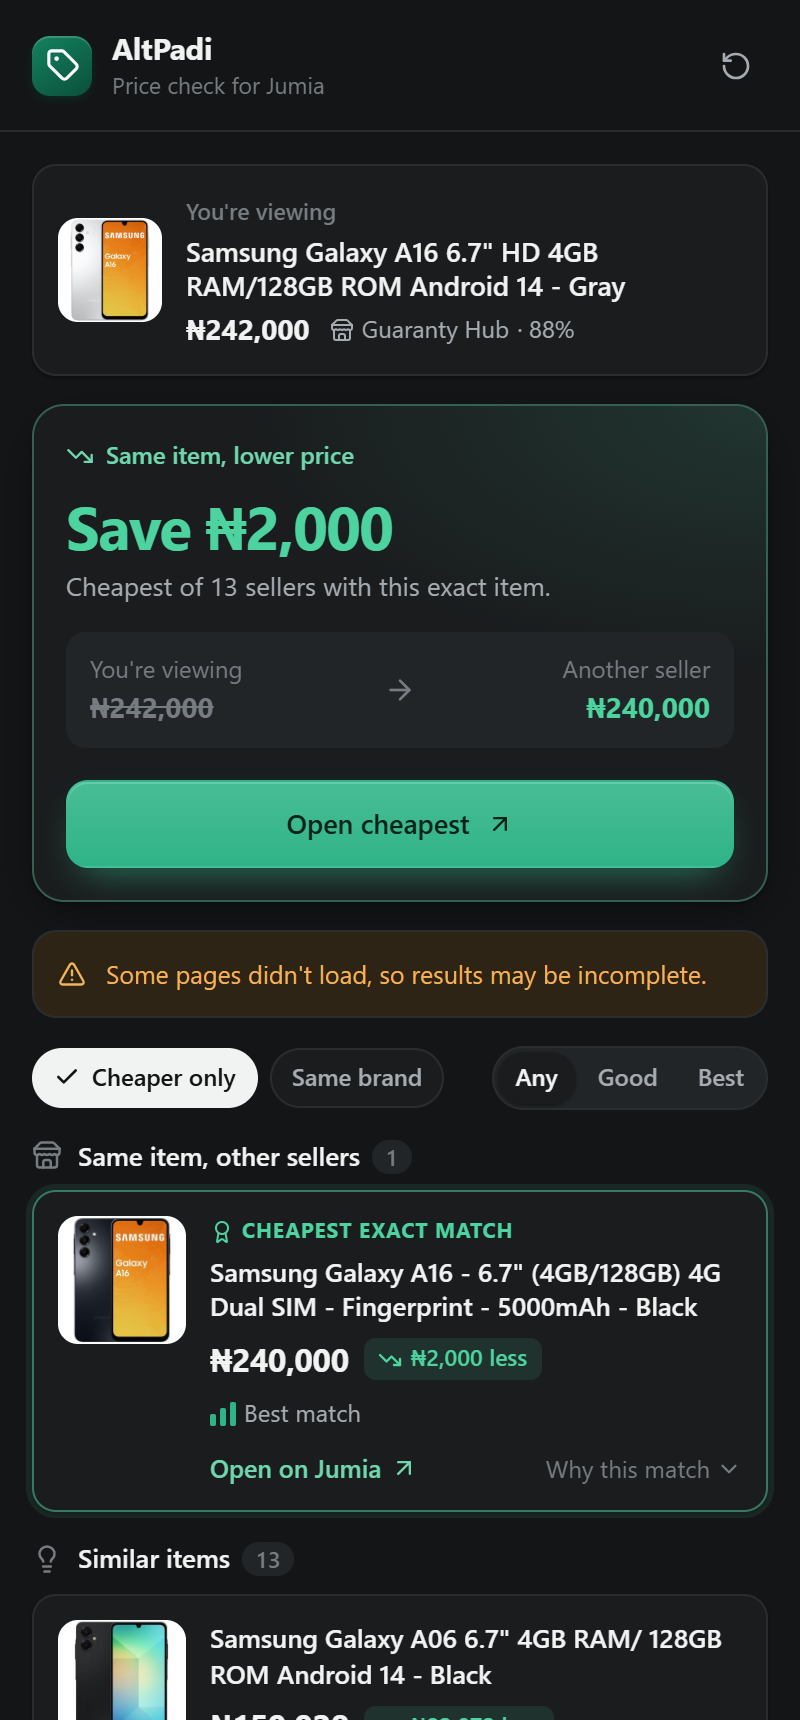
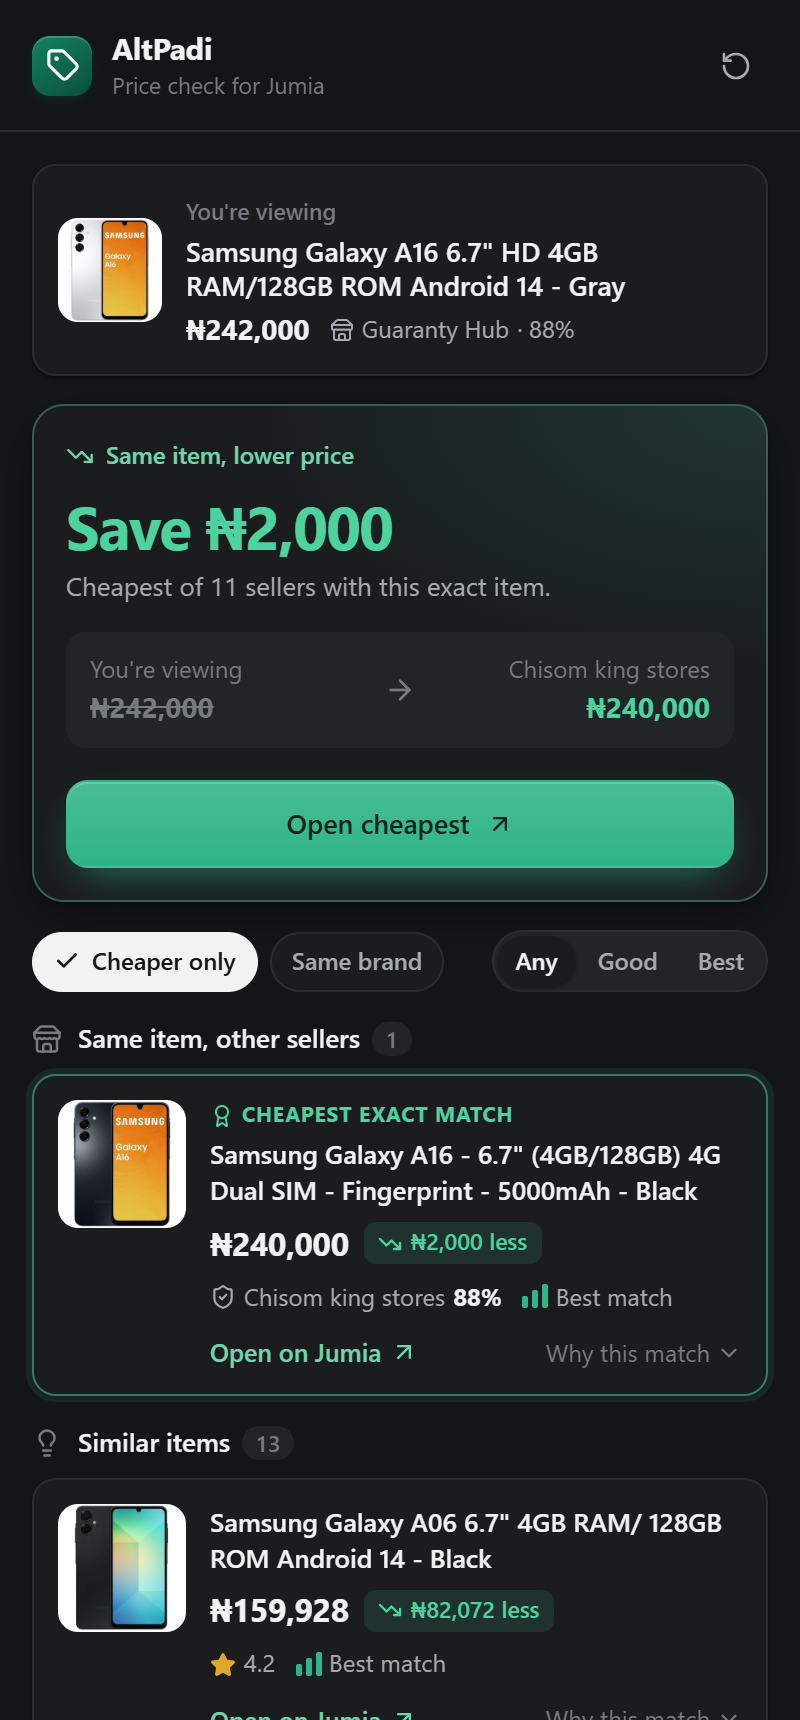
fix: pace Jumia requests and back off on HTTP 429
Jumia answers bursts with 429, which silently dropped product details (seller,
score) from results. All fetches now go through one queue with a 600ms gap,
and a 429 is retried twice, honouring Retry-After (capped at 8s).

Also: searching copy now says 10-20 seconds; README screenshots retaken from a
live run made through a real Jumia browser tab, with no failed pages.

diff --git a/src/extension/__tests__/politeFetch.test.ts b/src/extension/__tests__/politeFetch.test.ts
@@ -1,0 +1,76 @@
+import { describe, expect, it, vi } from "vitest";
+import { createPoliteFetch, type PoliteFetchOptions } from "@extension/politeFetch";
+
+/** A fake clock: sleep() advances time, so tests can read exactly how long we waited. */
+function fakeClock() {
+  let time = 0;
+  const waits: number[] = [];
+  return {
+    waits,
+    now: () => time,
+    sleep: async (ms: number) => {
+      waits.push(ms);
+      time += ms;
+    }
+  };
+}
+
+const respond = (status: number, headers: Record<string, string> = {}) => new Response("html", { status, headers });
+
+function setup(responses: Response[], options: Partial<PoliteFetchOptions> = {}) {
+  const clock = fakeClock();
+  const fetchOnce = vi.fn(async () => responses.shift() ?? respond(200));
+  const politeFetch = createPoliteFetch(fetchOnce, {
+    minGapMs: 500,
+    maxRetries: 2,
+    backoffMs: 1000,
+    maxWaitMs: 8000,
+    sleep: clock.sleep,
+    now: clock.now,
+    ...options
+  });
+  return { clock, fetchOnce, politeFetch };
+}
+
+describe("createPoliteFetch", () => {
+  it("leaves a gap between requests so Jumia isn't flooded", async () => {
+    const { clock, politeFetch } = setup([]);
+    await politeFetch("a");
+    await politeFetch("b");
+    await politeFetch("c");
+    expect(clock.waits).toEqual([500, 500]);
+  });
+
+  it("queues requests made at the same time instead of firing them together", async () => {
+    const { clock, fetchOnce, politeFetch } = setup([]);
+    await Promise.all([politeFetch("a"), politeFetch("b")]);
+    expect(fetchOnce).toHaveBeenCalledTimes(2);
+    expect(clock.waits).toEqual([500]);
+  });
+
+  it("backs off and retries when told 'too many requests'", async () => {
+    const { clock, fetchOnce, politeFetch } = setup([respond(429), respond(429), respond(200)]);
+    const response = await politeFetch("a");
+    expect(response.status).toBe(200);
+    expect(fetchOnce).toHaveBeenCalledTimes(3);
+    expect(clock.waits).toEqual([1000, 2000]);
+  });
+
+  it("follows the server's Retry-After, within a limit", async () => {
+    const { clock, politeFetch } = setup([respond(429, { "Retry-After": "3" }), respond(429, { "Retry-After": "60" })]);
+    await politeFetch("a");
+    expect(clock.waits).toEqual([3000, 8000]);
+  });
+
+  it("gives up after the last retry and hands back the 429", async () => {
+    const { fetchOnce, politeFetch } = setup([respond(429), respond(429), respond(429), respond(200)]);
+    expect((await politeFetch("a")).status).toBe(429);
+    expect(fetchOnce).toHaveBeenCalledTimes(3);
+  });
+
+  it("does not retry other failures", async () => {
+    const { fetchOnce, politeFetch } = setup([respond(500)]);
+    expect((await politeFetch("a")).status).toBe(500);
+    expect(fetchOnce).toHaveBeenCalledTimes(1);
+  });
+});

diff --git a/scripts/screenshots/capture-run.ts b/scripts/screenshots/capture-run.ts
@@ -1,5 +1,10 @@
 // Runs the real AltPadi search against live Jumia and saves the result for screenshots.
 // Run: npx vite-node scripts/screenshots/capture-run.ts "<jumia product url or search words>"
+//
+// Set ALTPADI_CDP to your Chrome's debugging URL (e.g. ws://127.0.0.1:9222/devtools/browser) and
+// ALTPADI_SESSION to an agent-browser session pinned to an open jumia.com.ng tab, and requests go
+// through that tab, as the extension's would. Otherwise Node fetches directly.
+import { execFileSync } from "node:child_process";
 import { writeFileSync } from "node:fs";
 import { runAlternativeSearch } from "@core/search-runner";
 import { fetchCurrentProductFromUrl } from "@extension/currentProduct";
@@ -9,16 +14,41 @@ const input = process.argv[2] ?? "samsung galaxy a16";
 
 const pause = (ms: number) => new Promise((resolve) => setTimeout(resolve, ms));
 
+interface Page {
+  status: number;
+  body: string;
+}
+
+const cdp = process.env.ALTPADI_CDP;
+const session = process.env.ALTPADI_SESSION;
+
+async function fetchDirect(url: string): Promise<Page> {
+  const response = await fetch(url, { headers: { "User-Agent": "Mozilla/5.0", Accept: "text/html" } });
+  return { status: response.status, body: await response.text() };
+}
+
+function fetchInBrowserTab(url: string): Page {
+  const source = `fetch(${JSON.stringify(url)}).then(async (r) => JSON.stringify({ status: r.status, body: await r.text() }))`;
+  // agent-browser is a .cmd shim on Windows; base64 keeps quotes and spaces away from the shell.
+  const script = `eval(atob('${Buffer.from(source).toString("base64")}'))`;
+  const output = execFileSync(
+    "agent-browser",
+    ["--cdp", cdp!, "--session", session!, "--pin-tab", "eval", script],
+    { encoding: "utf8", maxBuffer: 64 * 1024 * 1024, shell: process.platform === "win32" }
+  );
+  return JSON.parse(JSON.parse(output.trim())) as Page;
+}
+
 /** Jumia answers rapid requests with HTTP 429, so pace them and back off when told to. */
 async function fetchText(url: string, attempt = 1): Promise<string> {
-  await pause(800);
-  const response = await fetch(url, { headers: { "User-Agent": "Mozilla/5.0", Accept: "text/html" } });
-  if (response.status === 429 && attempt < 4) {
-    await pause(4000 * attempt);
+  await pause(1500);
+  const page = cdp && session ? fetchInBrowserTab(url) : await fetchDirect(url);
+  if (page.status === 429 && attempt < 4) {
+    await pause(5000 * attempt);
     return fetchText(url, attempt + 1);
   }
-  if (!response.ok) throw new Error(`HTTP ${response.status}`);
-  return response.text();
+  if (page.status >= 400) throw new Error(`HTTP ${page.status}`);
+  return page.body;
 }
 
 async function productUrl(): Promise<string> {

diff --git a/src/extension/politeFetch.ts b/src/extension/politeFetch.ts
@@ -1,0 +1,56 @@
+export interface PoliteFetchOptions {
+  /** Minimum time between the start of one request and the next. */
+  minGapMs: number;
+  /** Extra attempts after an HTTP 429 "too many requests". */
+  maxRetries: number;
+  /** First back-off when the server gives no Retry-After; doubles each retry. */
+  backoffMs: number;
+  /** Never wait longer than this for one retry, whatever Retry-After says. */
+  maxWaitMs: number;
+  sleep?: (ms: number) => Promise<void>;
+  now?: () => number;
+}
+
+const defaultSleep = (ms: number) => new Promise<void>((resolve) => setTimeout(resolve, ms));
+
+/**
+ * Wraps fetch so AltPadi behaves like a considerate visitor: one request at a time, a small gap
+ * between them, and a back-off when Jumia answers 429. Jumia rate-limits bursts, and a burst is
+ * exactly what a search (several result pages, then several product pages) would otherwise be.
+ */
+export function createPoliteFetch(
+  fetchOnce: (url: string) => Promise<Response>,
+  options: PoliteFetchOptions
+): (url: string) => Promise<Response> {
+  const { minGapMs, maxRetries, backoffMs, maxWaitMs, sleep = defaultSleep, now = Date.now } = options;
+  let lastStart: number | undefined;
+  let queue: Promise<unknown> = Promise.resolve();
+
+  async function send(url: string): Promise<Response> {
+    if (lastStart !== undefined) {
+      const wait = lastStart + minGapMs - now();
+      if (wait > 0) await sleep(wait);
+    }
+    lastStart = now();
+    return fetchOnce(url);
+  }
+
+  async function withRetries(url: string): Promise<Response> {
+    for (let attempt = 0; ; attempt++) {
+      const response = await send(url);
+      if (response.status !== 429 || attempt >= maxRetries) return response;
+      await sleep(Math.min(retryAfterMs(response) ?? backoffMs * 2 ** attempt, maxWaitMs));
+    }
+  }
+
+  return (url) => {
+    const result = queue.then(() => withRetries(url));
+    queue = result.catch(() => {});
+    return result;
+  };
+}
+
+function retryAfterMs(response: Response): number | undefined {
+  const seconds = Number(response.headers.get("Retry-After"));
+  return Number.isFinite(seconds) && seconds > 0 ? seconds * 1000 : undefined;
+}

diff --git a/src/extension/background.ts b/src/extension/background.ts
@@ -2,6 +2,7 @@ import { runAlternativeSearch } from "@core/search-runner";
 import { fetchCurrentProductFromUrl } from "@extension/currentProduct";
 import type { SearchProgress } from "@core/types";
 import type { ExtensionRequest, ExtensionResponse, SearchProgressEvent } from "@extension/messages";
+import { createPoliteFetch } from "@extension/politeFetch";
 import { jumiaNgAdapter } from "@marketplaces/jumia-ng/adapter";
 
 const LIMITS = {
@@ -9,6 +10,14 @@ const LIMITS = {
   maxSearchCandidates: 40,
   maxDetailFetches: 10
 };
+
+// Jumia answers bursts with HTTP 429, so space requests out and back off when asked.
+const politeFetch = createPoliteFetch((url) => fetchWithTimeout(url), {
+  minGapMs: 600,
+  maxRetries: 2,
+  backoffMs: 1500,
+  maxWaitMs: 8000
+});
 
 chrome.runtime.onInstalled.addListener(() => {
   void chrome.sidePanel.setPanelBehavior({ openPanelOnActionClick: true });
@@ -56,20 +65,24 @@ async function fetchTextWithCache(url: string): Promise<string> {
   const value = cached[cacheKey] as { html: string; expiresAt: number } | undefined;
   if (value && value.expiresAt > Date.now()) return value.html;
 
+  const response = await politeFetch(url);
+  if (!response.ok) throw new Error(`HTTP ${response.status}`);
+  const html = await response.text();
+  await cacheWrite(cacheKey, { html, expiresAt: Date.now() + ttlFor(url) });
+  return html;
+}
+
+async function fetchWithTimeout(url: string): Promise<Response> {
   const controller = new AbortController();
   const timeout = setTimeout(() => controller.abort(), 10000);
   try {
-    const response = await fetch(url, {
+    return await fetch(url, {
       signal: controller.signal,
       credentials: "include",
       headers: {
         Accept: "text/html,application/xhtml+xml"
       }
     });
-    if (!response.ok) throw new Error(`HTTP ${response.status}`);
-    const html = await response.text();
-    await cacheWrite(cacheKey, { html, expiresAt: Date.now() + ttlFor(url) });
-    return html;
   } finally {
     clearTimeout(timeout);
   }

diff --git a/src/ui/components/StartScreen.tsx b/src/ui/components/StartScreen.tsx
@@ -36,7 +36,7 @@ export function StartScreen({ onStart, stats, showPinTip, onDismissPinTip }: Sta
           </span>
         </div>
         <h2>Is this the best price?</h2>
-        <p>Find the same item for less, or a safer seller, in a few seconds.</p>
+        <p>Find the same item for less, or a safer seller, without opening a dozen tabs.</p>
         <button className="button primary wide" type="button" onClick={onStart}>
           <Search size={16} aria-hidden="true" /> Check prices
         </button>

diff --git a/src/ui/components/Searching.tsx b/src/ui/components/Searching.tsx
@@ -25,7 +25,7 @@ export function Searching({ progress, onStop }: SearchingProps) {
         ))}
       </div>
       <div className="searchingFoot">
-        <span>Usually takes a few seconds</span>
+        <span>Usually takes 10–20 seconds</span>
         <button className="button quiet" type="button" onClick={onStop}>
           <X size={14} aria-hidden="true" /> Stop
         </button>

diff --git a/README.md b/README.md
@@ -6,7 +6,7 @@
 
 <p align="center">
   <b>Is this the best price on Jumia?</b><br />
-  A Chrome side panel that checks other sellers of the same item in a few seconds,
+  A Chrome side panel that checks other sellers of the same item for you,
   and tells you plainly whether you can pay less.
 </p>
 
